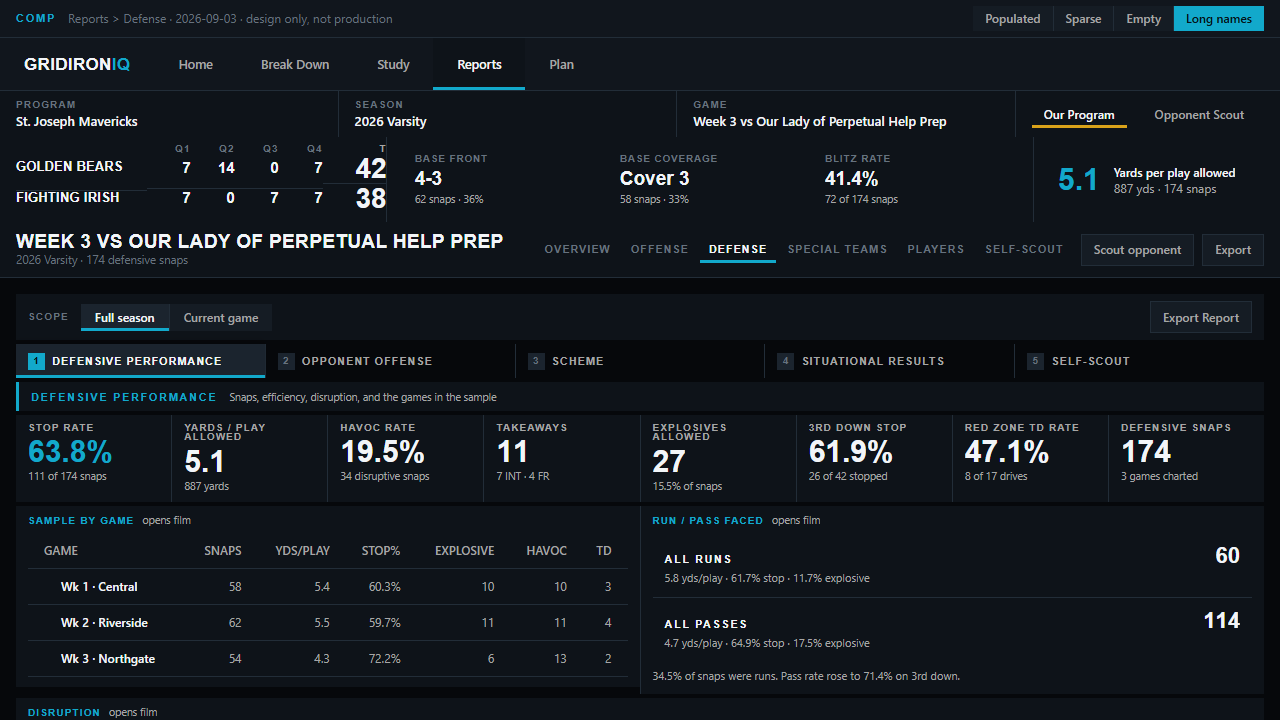
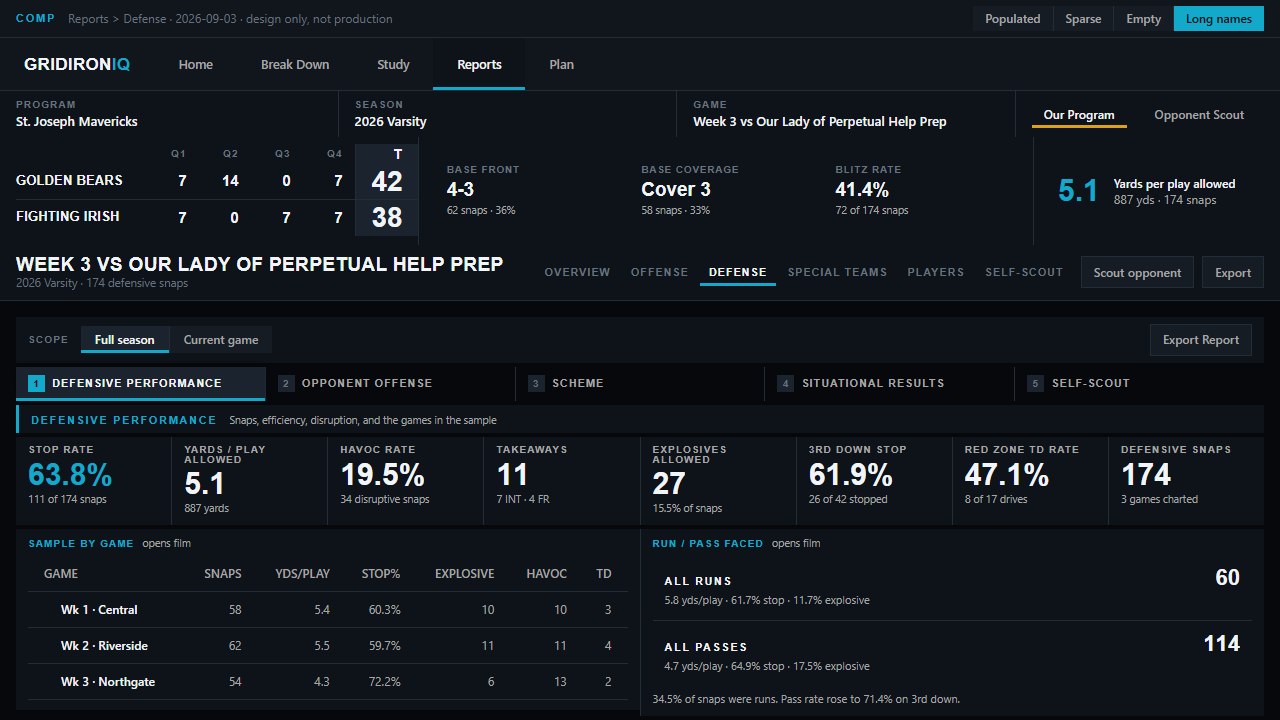
design: give the T header the final column weight
It carried the muted 9.5px eyebrow used for Q1-Q4, which read as an
afterthought sitting over the two strongest figures in the bug. Now 14px bold
in the strong ink, matched to the column it labels.

diff --git a/design-comps/reports-defense-2026-09-03/defense.html b/design-comps/reports-defense-2026-09-03/defense.html
@@ -124,7 +124,7 @@ button{font-family:inherit}
   border-left:1px solid var(--gi-bd-line);
   padding-right:var(--gi-4x)!important;padding-left:var(--gi-4x)!important
 }
-.sb-score .sb-hd.tot{color:var(--gi-bd-copy)}
+.sb-score .sb-hd.tot{color:var(--gi-bd-strong);font:700 14px/1 var(--gi-cond);letter-spacing:.1em}
 #sbRowThem>*{border-top:1px solid var(--gi-bd-line)}
 .sb-score{padding-right:0}
 .sb-name{padding-right:var(--gi-6x)!important}
